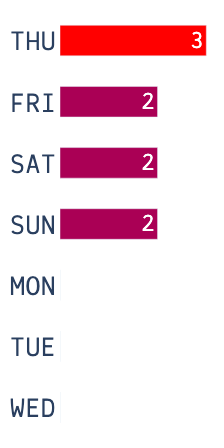
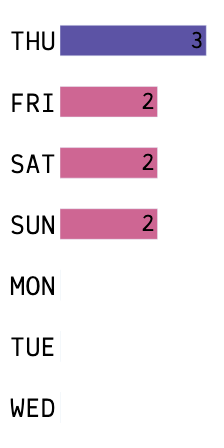
modified colorscheme in orgbot

diff --git a/bots/orgbot.py b/bots/orgbot.py
@@ -13,10 +13,12 @@ def create_org_bar_chart(days, task_count):
     fig = go.Figure(go.Bar(x=task_count, y=days, orientation='h',
                            text=task_count, textposition='auto',
                            textangle=0,
-                           marker=dict(color=task_count, colorscale='bluered')
+                           textfont=dict(color='black'),
+                           marker=dict(color=task_count, colorscale='sunset')
                            ))
     fig['layout'].update(width=224, height=448, plot_bgcolor='#fff',
                          font=dict(family="Dank Mono, Consolas, monospace",
+                                   color='black',
                                    size=28),
                          xaxis=dict(showgrid=False,
                                     showline=False,
